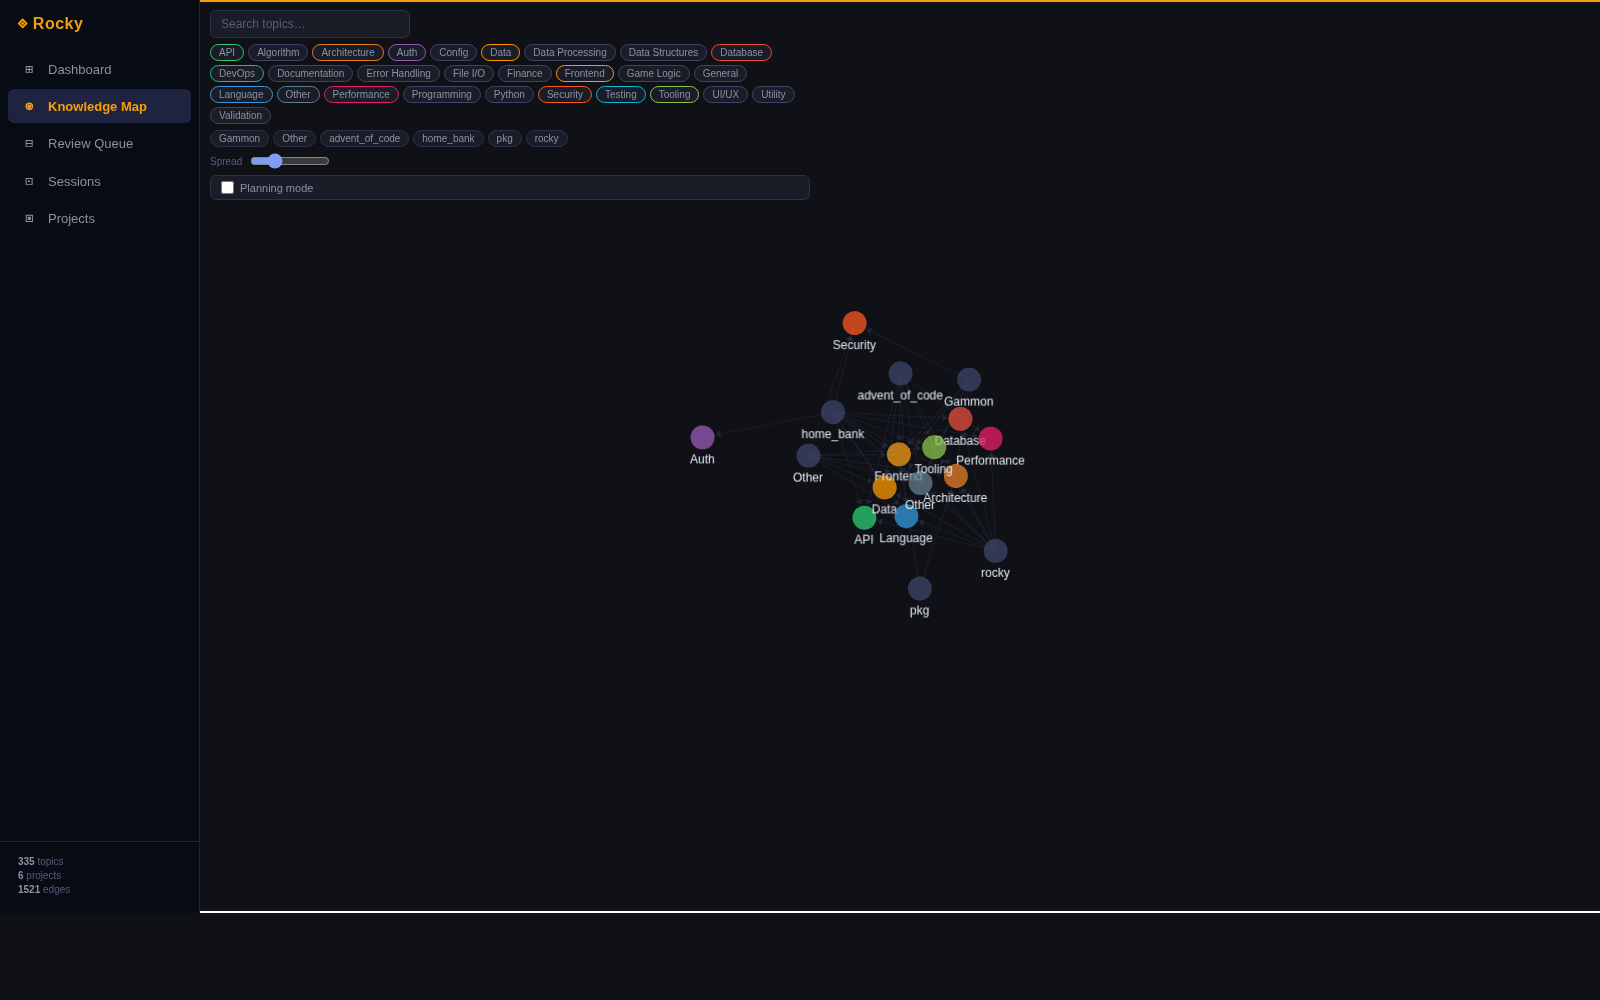
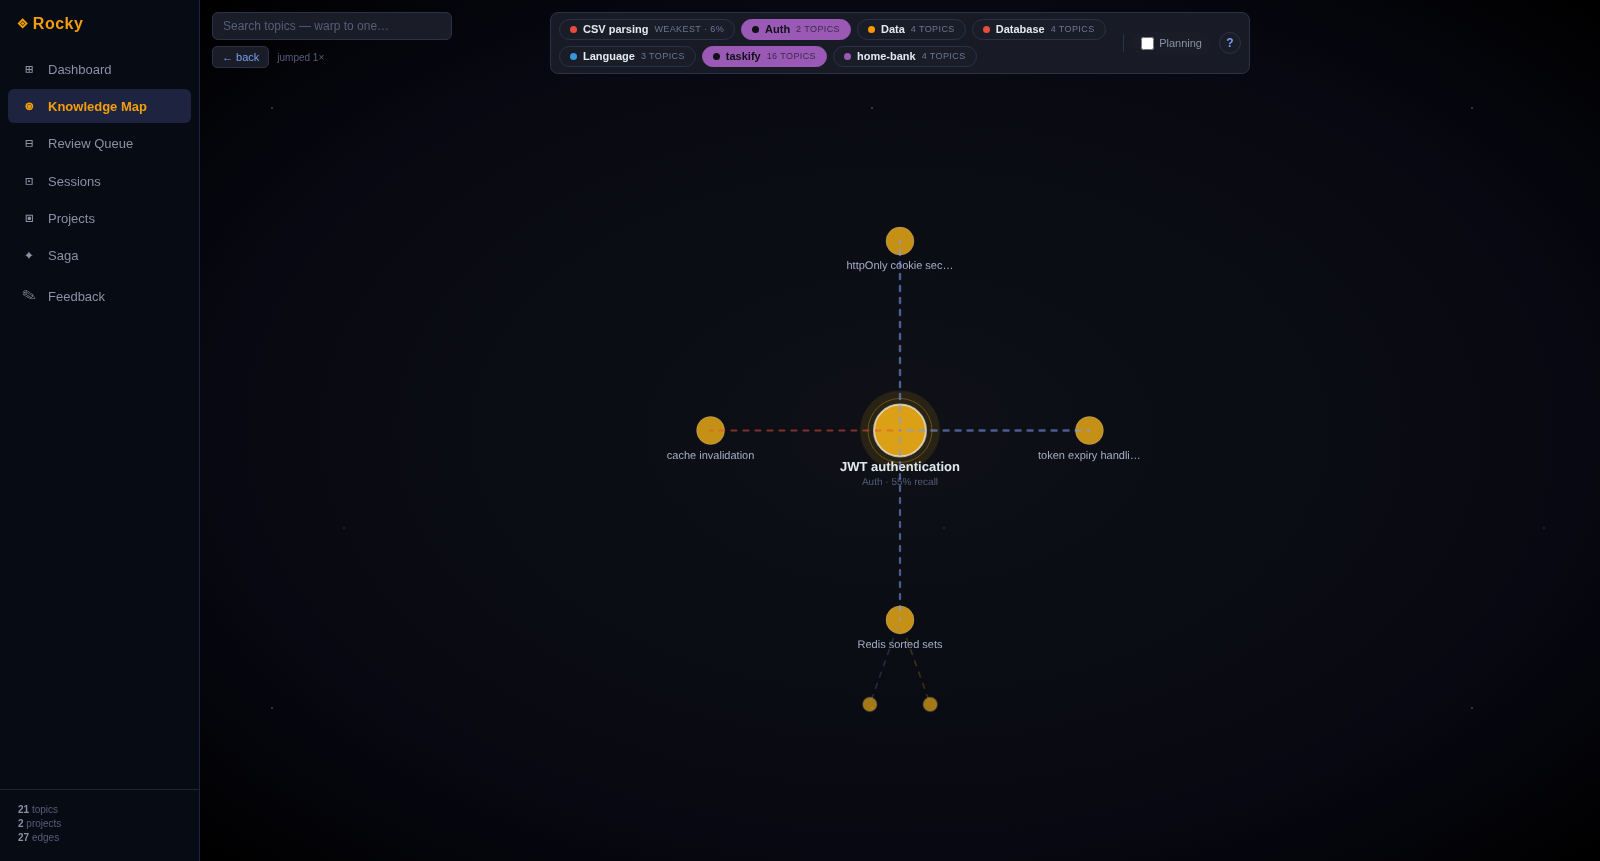
docs(site): refresh demo screenshots + drop Architecture/Roadmap pages
Screenshots
- Re-captured all five tab screenshots (Dashboard, Knowledge Map,
  Review Queue, Sessions, Projects) against the demo PKG via headless
  chromium so the site reflects the current UI: top-center wormhole
  pill bar with the "you are here" inverted pill, project filters on
  Queue and Sessions, frosted-glass detail panel, IQ trend on its own
  line under the title, and the new sparklines.
- Map shot warps to JWT authentication first (most-connected node in
  the demo PKG, 4 edges) so the screenshot shows a dense neighbourhood
  instead of an isolated dot.

Site nav
- Drop the "Architecture decisions" and "Roadmap" entries from
  kSections in main.dart per request.
- Delete the now-unused kArchitecture and kRoadmap content blocks from
  content.dart.
- Rewrite the five `[xxx](roadmap)` link targets in kReferences to
  point at BACKLOG.md on GitHub (where those features actually live).

Walkthrough text
- Update both "Wormholes panel (bottom-left)" descriptions to reflect
  the new top-center pill bar with `?` help popover and the
  "you are here" active-pill marker.
- Note single-click vs double-click semantics on the Knowledge Map
  (open detail / warp focus) and the translucent detail panel.
- Mention the new project filter on the Review Queue and Sessions tabs.
- Rename "other repos" to "other projects" in the wormhole prose for
  consistency with the rename done in app.html.

diff --git a/docs/lib/content.dart b/docs/lib/content.dart
@@ -531,9 +531,10 @@ A 2-hop neighborhood centred on one topic. The whole PKG is never on screen at o
 - **Click any hop-1 node** → the entire graph shifts so that node moves to the centre. Then nodes more than two hops away fade out and the new 2-hop ring fades in. About 1 second end-to-end.
 - **Hop-2 nodes are previews only** — colour-coded but unlabelled and not clickable for warp; clicking opens the detail panel without travelling.
 - **Edges radiate outward** from the focus with continuous dashes flowing along the line, so you always see direction. Hop-1 edges are bright; hop-2 edges are dim, pushing them visually behind the active neighborhood.
-- **Wormholes panel** (bottom-left) holds portals to elsewhere: the weakest topic globally, the most-recent topic in other domains, and the most-recent in other projects. One-click jumps to anywhere in the PKG.
+- **Single click** opens the detail panel for the clicked node. **Double click** warps focus there. The detail panel is translucent (frosted glass) so the wormhole stays visible behind it.
+- **Wormholes panel** (top-center, as a row of pills) holds portals to elsewhere: the weakest topic globally, the most-recent topic in other domains, and the most-recent in other projects. The pill matching your current focus is rendered inverted as a "you are here" marker. One-click jumps anywhere in the PKG; a `?` pill explains what each colour means.
 - **Spaceship 🚀 cursor** over the canvas — on brand.
-- **Planning mode** toggle dims topics you already know well and highlights unreviewed neighbors as "what's next".
+- **Planning mode** toggle (in the same pill bar) dims topics you already know well and highlights unreviewed neighbors as "what's next".
 
 When you click a project card on the **Projects** tab, the map switches to a **project hub view**: project name at center, domain hubs around it, three most-recent topics per domain on the outer ring. Click a topic to warp into the wormhole at that node.
 
@@ -550,12 +551,12 @@ A play / pause / scrub view of how your knowledge grew. The explorer (your git u
 - **Share dropdown** exports the current view as an SVG, a 2× PNG, or a full timelapse GIF (1080² @ 15 fps, ~8s).
 
 ### Review Queue
-A sortable, filterable table of every topic. Sort by recall, recency, review count, or alphabetical. Filter to *due* or *critical*. Click any row to start a quiz on that topic, or hit "Quiz top 5" to start a session against the lowest-recall items in the current view.
+A sortable, filterable table of every topic. Sort by recall, recency, review count, or alphabetical. Filter to *due* or *critical*, and narrow further by project. Click any row to start a quiz on that topic, or hit "Quiz top 5" to start a session against the lowest-recall items in the current view.
 
 ![Review Queue](screenshots/rocky-queue.png)
 
 ### Sessions
-Every topic Rocky has ever generated, grouped by the day it was added. Encounter counts (×N badges) show where the cross-project dedup hit — the same topic surfacing across multiple commits.
+Every topic Rocky has ever generated, grouped by the day it was added, with a project filter at the top. Encounter counts (×N badges) show where the cross-project dedup hit — the same topic surfacing across multiple commits.
 
 ![Sessions](screenshots/rocky-sessions.png)
 
@@ -1130,10 +1131,11 @@ A bounded 2-hop neighborhood — never more than ~28 nodes on screen at a time, 
 - **Hop-2 ring** (outer): neighbors of neighbors, capped at 18 total / 4 per parent. Dim, unlabelled, click-to-open detail only — they're previews of what's adjacent.
 - **Edges** colour-coded by kind (`implies` blue, `depends_on` amber, `conflicts_with` red, `part_of` green). Continuous outward dash flow always reads focus → neighbor. Hop-1 edges are bright; hop-2 edges are dim.
 - **Click a hop-1 node** → graph shifts in two phases. Phase 1: every node tweens to its new position so the clicked node ends up at centre. Phase 2: now-out-of-range nodes fade out, newly-in-range nodes fade in. Total ≈ 1 s.
-- **Wormholes panel** (bottom-left): portals to **the weakest topic globally**, the **most-recent topic in each of 3 other domains**, and the **most-recent in 2 other repos**. One-click jumps anywhere in the PKG.
+- **Wormholes panel** (top-center, as horizontal pills): portals to **the weakest topic globally**, the **most-recent topic in each of 3 other domains**, and the **most-recent in 2 other projects**. The pill matching your current focus is shown inverted as a "you are here" marker. One-click jumps anywhere in the PKG; a `?` pill expands a popover explaining each colour.
 - **Search** (top-left): typeahead → click a hit to warp.
 - **Back button** appears once you've warped, with a `jumped Nx` counter.
-- **Planning mode** (in the Wormholes panel): dims known topics, highlights unreviewed neighbors as "what's next".
+- **Single click** on any node opens its detail panel; **double click** warps focus to it. The detail panel is translucent (backdrop-blurred) so the wormhole stays visible.
+- **Planning mode** (in the same pill bar): dims known topics, highlights unreviewed neighbors as "what's next".
 - **Spaceship 🚀 cursor** over the canvas.
 
 **Detail panel** (slides in from the right when you click any node):
@@ -2740,29 +2742,6 @@ This is your knowledge graph for one project, one week in. Each edge is a relati
 After backfilling **home-bank**, four more topics appear in the Data domain: CSV parsing, transaction categorisation, Pandas DataFrame operations, and double-entry bookkeeping. They carry commit dates from October 2025 — Rocky knows exactly how long ago you last touched that code.
 ''';
 
-const kArchitecture = r'''
-# Architecture decisions
-
-The major design choices behind Rocky's alpha (and the planned voice integration) are captured as **ADRs** — Architecture Decision Records, one per file, in [`docs/decisions/`](https://github.com/NVME-git/rocky/tree/main/docs/decisions) on the repo. They use the [Michael Nygard format](https://github.com/joelparkerhenderson/architecture-decision-record): context (why this even came up), decision (what we chose), consequences (good and bad).
-
-| # | Title | Status |
-|---|---|---|
-| 0001 | [Rich-context pipeline](https://github.com/NVME-git/rocky/blob/main/docs/decisions/0001-rich-context-pipeline.md) — explore + post-commit queue + session-end | Accepted |
-| 0002 | [Layer-1 dedup + question bank with rotation](https://github.com/NVME-git/rocky/blob/main/docs/decisions/0002-dedup-and-question-bank.md) | Accepted |
-| 0003 | [LLM resilience](https://github.com/NVME-git/rocky/blob/main/docs/decisions/0003-llm-resilience.md) — timeouts, retries, lenient JSON parsing | Accepted |
-| 0004 | [Config layout, ROCKY_HOME, privacy.strict](https://github.com/NVME-git/rocky/blob/main/docs/decisions/0004-config-paths-and-privacy.md) | Accepted |
-| 0005 | [Rocky IQ score + sidebar UI redesign](https://github.com/NVME-git/rocky/blob/main/docs/decisions/0005-rocky-iq-and-ui.md) | Accepted |
-| 0006 | [Voice architecture](https://github.com/NVME-git/rocky/blob/main/docs/decisions/0006-voice-architecture.md) — whisper.cpp default, push-to-talk only | Proposed |
-
-Read these if you want to know **why** Rocky is shaped the way it is — the rest of the docs cover **what** it does.
-
-## What constitutes a new ADR?
-
-Anything where the answer to *"why did we do it this way?"* is non-obvious six months later. New cross-cutting features get an ADR; bug fixes and refactors don't.
-
-When a decision is reversed, the new ADR **supersedes** the old one — never edit the historical file.
-''';
-
 const kVoice = r'''
 # Voice (alpha — push-to-talk)
 
@@ -2822,123 +2801,6 @@ provider = "off"
 Mic button stops working immediately, no rebuild needed.
 ''';
 
-const kRoadmap = r'''
-# Roadmap
-
-These features are planned or under active consideration. They are tracked in [BACKLOG.md](https://github.com/NVME-git/rocky/blob/main/BACKLOG.md) in the repository.
-
----
-
-## Teaching quality
-
-### Struggle score affects stability
-
-Rocky currently marks a topic as "understood" regardless of how much scaffolding was needed to get there. A topic answered immediately should earn higher stability than one that required three follow-ups and two clues.
-
-**Planned change:** Track a struggle score per review — follow-up count, clue requests, simplification requests. Weight stability gain inversely: a clean first-attempt answer builds stability faster than a scaffolded one.
-
----
-
-### AI-source tagging
-
-A topic can enter your PKG two ways: from your own code (a diff you wrote, a commit you made) or from an AI-assisted prompt (Rocky saw the topic mentioned in something you asked Claude to build). These are not the same thing. The first comes with struggle and context; the second might come with neither.
-
-**Planned change:** Tag each topic with its origin — `own_code` or `ai_prompt`. Topics tagged `ai_prompt` are quizzed more aggressively. `rocky ls` and `rocky stats` surface them as a distinct category: topics you know about but may never have had to reason through independently.
-
----
-
-### Independence score
-
-A second axis alongside recall: what fraction of this topic's appearances came from your own diffs vs. AI-generated code?
-
-**Planned change:** Track per-topic encounter sources. In `rocky stats`, show a new category — "AI-dependent" — for topics with high recall but low independent-code encounters. These are the risk areas: you could ship them confidently and be lost if the AI gets them wrong.
-
----
-
-### Hard mode
-
-Rocky provides clues, explanations, and question simplification to help when you're stuck. These are useful — but used too freely, they let you navigate a quiz session without ever sitting with genuine uncertainty.
-
-**Planned change:** `rocky quiz --hard` disables `[c]` clue, `[?]` explain, and `[s]` simpler for the session. Configurable permanently in `.rocky.toml`:
-
-```toml
-[ui]
-hard_mode = true
-```
-
-You either answer from what you actually know, or you skip and admit the gap.
-
----
-
-### Debugging-focused question kind
-
-Rocky's Socratic questions ask about implications and consequences. That covers a lot — but the most durable engineering skill is debugging: given something broken, why did it break and how would you find it?
-
-**Planned change:** A new question kind generated at backfill and diff time alongside the canonical question: *given this code change, what would a production bug look like and what would the stack trace tell you?* Distinct from the implication question. Targets the skill AI is least likely to replace.
-
----
-
-### Pre-task gap framing
-
-When you run `rocky "task description"`, Rocky currently tells you what you know and quizzes you on gaps. The framing could be sharper: these aren't just gaps — they are specifically the topics you are about to ask AI to handle for you.
-
-**Planned change:** For each gap topic in a pre-task session, Rocky labels it as an AI-risk: *"You have a gap on Lua scripting in Redis. This is something AI will likely write for you. Here is the question you should be able to answer before trusting what it produces."* Rocky becomes an explicit check on AI output, not just a learning tool.
-
----
-
-## Workflow integration
-
-### Rocky as a required PR check
-
-A GitHub Actions workflow that makes Rocky a required status check on pull requests. Before a PR can merge, Rocky analyses the diff, identifies the topics introduced, and checks whether the author has those topics in their PKG above a configurable recall threshold.
-
-**Planned design:**
-
-```yaml
-# .github/workflows/rocky-check.yml
-on: [pull_request]
-
-jobs:
-  rocky:
-    runs-on: ubuntu-latest
-    steps:
-      - uses: actions/checkout@v4
-      - name: Rocky knowledge check
-        uses: NVME-git/rocky-action@v1
-        with:
-          min_recall: 0.6
-          pkg_url: ${{ secrets.ROCKY_PKG_URL }}   # your private PKG repo
-```
-
-Rocky fetches your PKG, runs the diff against the PR, and reports which topics are below threshold. The check passes when all introduced topics are either known or explicitly marked as accepted gaps.
-
-**GitHub stacked PRs:** When using stacked PRs (where each PR builds on the previous), the Rocky check can be scoped per-layer — each PR must demonstrate understanding of only the topics *it* introduces, not the entire stack. This scales the requirement to the size of the change.
-
-**Configuration in `.rocky.toml`:**
-
-```toml
-[pr_check]
-enabled = true
-min_recall = 0.6   # topics below this threshold block merge
-allow_bypass = false        # if true, author can override with a reason
-notify_reviewer = true      # post a comment showing topic scores
-```
-
----
-
-## Graph enrichment
-
-### Scheduled enrichment passes
-
-As Rocky adds new node fields (canonical clue, debugging questions, independence score), existing nodes need to be retroactively enriched. Currently this requires manual commands (`rocky backfill --fill-clues`).
-
-**Planned change:** A background scheduler that detects missing fields and runs enrichment silently — so quiz time is always fast and the PKG stays current without manual intervention.
-
----
-
-*All items above are tracked in [BACKLOG.md](https://github.com/NVME-git/rocky/blob/main/BACKLOG.md). If you have ideas or want to contribute, open an issue.*
-''';
-
 const kReferences = r'''
 # References & Research
 
@@ -2962,7 +2824,7 @@ Mahoney's sharpest observation: AI tools give learners *confidence* without nece
 
 This is a new form of tutorial hell. The old version meant watching someone else solve problems without ever solving them yourself. The AI version means having problems solved *for* you, in code that runs, ships, and disappears into your codebase — leaving no trace of the struggle that would have built real understanding.
 
-Rocky's response to this is the core of its design: every topic must pass a Socratic question grounded in consequences, not definitions. But Mahoney's point pushes further — the source of a topic's entry into the PKG matters as much as whether you can answer a question about it. A topic you encountered in your own debugging is different from a topic you saw in AI-generated code. **[AI-source tagging](roadmap)** is the planned feature that makes this distinction explicit.
+Rocky's response to this is the core of its design: every topic must pass a Socratic question grounded in consequences, not definitions. But Mahoney's point pushes further — the source of a topic's entry into the PKG matters as much as whether you can answer a question about it. A topic you encountered in your own debugging is different from a topic you saw in AI-generated code. **[AI-source tagging](https://github.com/NVME-git/rocky/blob/main/BACKLOG.md)** is the planned feature that makes this distinction explicit.
 
 ---
 
@@ -2970,7 +2832,7 @@ Rocky's response to this is the core of its design: every topic must pass a Socr
 
 Mahoney expresses concern that students who rely on AI miss the grind of debugging — the hours spent staring at a problem with no help coming. That struggle isn't just inefficiency; it builds the resilience and pattern recognition that makes a developer effective under pressure.
 
-This maps directly to Rocky's scaffolding options — clues, explanations, simplification. These are useful when genuinely stuck, but used reflexively they become an escape from the productive discomfort that creates competence. **[Hard mode](roadmap)** is the planned response: a configuration that removes the escape routes, forcing genuine engagement or an honest skip.
+This maps directly to Rocky's scaffolding options — clues, explanations, simplification. These are useful when genuinely stuck, but used reflexively they become an escape from the productive discomfort that creates competence. **[Hard mode](https://github.com/NVME-git/rocky/blob/main/BACKLOG.md)** is the planned response: a configuration that removes the escape routes, forcing genuine engagement or an honest skip.
 
 ---
 
@@ -2978,7 +2840,7 @@ This maps directly to Rocky's scaffolding options — clues, explanations, simpl
 
 When asked which skills AI won't replace, Mahoney's answer is immediate: problem-solving and debugging. Not because AI can't debug — it can — but because the *judgment* to know when an AI's debug is wrong requires the same forensic instincts that only come from having debugged things yourself.
 
-Rocky's current question format asks about implications and consequences. **[Debugging-focused questions](roadmap)** extend this into forensic territory: given this code change, what would a production failure look like? What would the stack trace tell you? These questions can't be answered by pattern-matching on documentation — they require the kind of thinking Mahoney identifies as durable.
+Rocky's current question format asks about implications and consequences. **[Debugging-focused questions](https://github.com/NVME-git/rocky/blob/main/BACKLOG.md)** extend this into forensic territory: given this code change, what would a production failure look like? What would the stack trace tell you? These questions can't be answered by pattern-matching on documentation — they require the kind of thinking Mahoney identifies as durable.
 
 ---
 
@@ -2986,7 +2848,7 @@ Rocky's current question format asks about implications and consequences. **[Deb
 
 Mahoney describes his own AI workflow: use the tool to iterate on a *plan* first, refuse to let it generate code until the plan is solid. This disciplines the collaboration — the developer stays in the decision seat, and the AI handles execution within defined constraints.
 
-Rocky's pre-task mode (`rocky "task description"`) already reviews what you know before work begins. **[Pre-task gap framing](roadmap)** makes the AI-risk dimension explicit: for each gap topic, Rocky tells you *this is something AI will likely write for you — here is the question you should be able to answer before trusting the output*. The pre-task session becomes a readiness check for supervised AI use, not just a general review.
+Rocky's pre-task mode (`rocky "task description"`) already reviews what you know before work begins. **[Pre-task gap framing](https://github.com/NVME-git/rocky/blob/main/BACKLOG.md)** makes the AI-risk dimension explicit: for each gap topic, Rocky tells you *this is something AI will likely write for you — here is the question you should be able to answer before trusting the output*. The pre-task session becomes a readiness check for supervised AI use, not just a general review.
 
 ---
 
@@ -3004,7 +2866,7 @@ One idea that emerged from this discussion: if AI is handling more and more of t
 
 The conventional answer is code review. But code review is good at catching logic errors, not at detecting whether the author could reason through the code without the AI that wrote it.
 
-Rocky's PR check (**[planned feature](roadmap)**) addresses this at the workflow level: before a PR can merge, Rocky verifies the author's PKG shows adequate recall on the topics introduced. Paired with GitHub's stacked PRs feature — where PRs build on each other in a reviewable stack — this creates a layer-by-layer knowledge check: each PR in the stack must demonstrate understanding of only what it introduces.
+Rocky's PR check (**[planned feature](https://github.com/NVME-git/rocky/blob/main/BACKLOG.md)**) addresses this at the workflow level: before a PR can merge, Rocky verifies the author's PKG shows adequate recall on the topics introduced. Paired with GitHub's stacked PRs feature — where PRs build on each other in a reviewable stack — this creates a layer-by-layer knowledge check: each PR in the stack must demonstrate understanding of only what it introduces.
 
 This doesn't slow down shipping. It makes the assumption behind shipping — *"the author knows what this does"* — verifiable.
 

diff --git a/docs/lib/main.dart b/docs/lib/main.dart
@@ -123,8 +123,6 @@ final List<DocSection> kSections = [
   const DocSection('Sync & Backup', Icons.sync, kSync),
   const DocSection('Demo Usecase', Icons.timeline, kWalkthrough),
   const DocSection('Voice', Icons.mic_rounded, kVoice),
-  const DocSection('Architecture decisions', Icons.architecture, kArchitecture),
-  const DocSection('Roadmap', Icons.map_outlined, kRoadmap),
   const DocSection('References', Icons.menu_book_outlined, kReferences),
 ];
 
